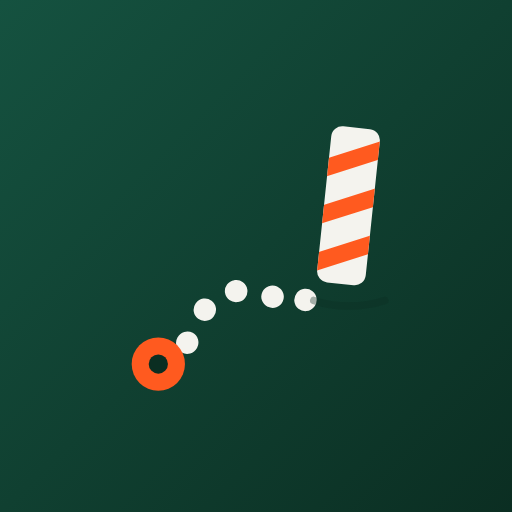
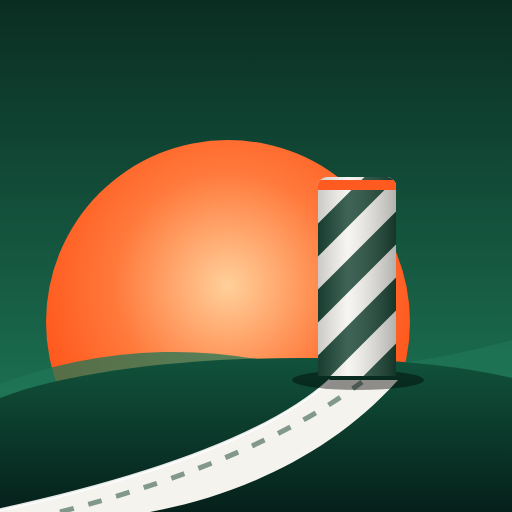
feat: новая иконка Вёрст — верста на рассвете
Иконка нарисована заново: рассветное солнце, лента дороги и верстовой
столб в диагональную полоску — как на экране приветствия.

- icons/icon.svg и icon-maskable.svg (maskable — без скруглений, ключевые
  детали внутри безопасной зоны);
- PNG: icon-192/512, icon-192/512-maskable, apple-touch-icon (180, без альфы),
  favicon-16/32 и favicon.ico (16/32/48) — собраны из тех же SVG;
- знак в шапке каталога (<symbol id="brand-mark"> в index.html) заменён на
  новую иконку, id градиентов с префиксом vk-.

Версию кэша оболочки (SHELL_VERSION) поднимет GitHub Action после слияния.

diff --git a/index.html b/index.html
@@ -22,14 +22,28 @@
   <body>
     <svg width="0" height="0" style="position: absolute" aria-hidden="true">
       <symbol id="brand-mark" viewBox="0 0 512 512">
-        <rect width="512" height="512" rx="116" fill="#124a38" />
-        <g transform="translate(12 -8)">
-          <path d="M112 404C168 398 150 318 214 306S292 356 318 306" fill="none" stroke="#f4f3ee" stroke-width="34" stroke-linecap="round" stroke-dasharray="0.5 56" />
-          <circle cx="112" cy="404" r="40" fill="#ff5a1f" />
-          <circle cx="112" cy="404" r="14" fill="#124a38" />
-          <g transform="rotate(6 368 190)">
-            <rect x="336" y="84" width="66" height="212" rx="15" fill="#f4f3ee" />
-            <path d="M336 138l66-29v26l-66 29zM336 202l66-29v26l-66 29zM336 266l66-29v26l-66 29z" fill="#ff5a1f" />
+        <defs>
+          <linearGradient id="vk-sky" x1="0" y1="0" x2="0" y2="1"><stop offset="0" stop-color="#0a2d22"/><stop offset=".72" stop-color="#1a6a4d"/><stop offset="1" stop-color="#2d8f66"/></linearGradient>
+          <radialGradient id="vk-sun" cx="50%" cy="40%" r="62%"><stop offset="0" stop-color="#ffd09a"/><stop offset=".5" stop-color="#ff7a3c"/><stop offset="1" stop-color="#ff4a10"/></radialGradient>
+          <linearGradient id="vk-hill" x1="0" y1="0" x2="0" y2="1"><stop offset="0" stop-color="#11523b"/><stop offset="1" stop-color="#05201a"/></linearGradient>
+          <linearGradient id="vk-vol" x1="0" y1="0" x2="1" y2="0"><stop offset="0" stop-color="#000" stop-opacity=".22"/><stop offset=".4" stop-color="#fff" stop-opacity=".2"/><stop offset="1" stop-color="#000" stop-opacity=".34"/></linearGradient>
+          <clipPath id="vk-pc"><path d="M318 186a9 9 0 0 1 9-9H387a9 9 0 0 1 9 9V376H318Z"/></clipPath>
+          <clipPath id="vk-tile"><rect width="512" height="512" rx="116"/></clipPath>
+        </defs>
+        <g clip-path="url(#vk-tile)">
+          <rect width="512" height="512" fill="url(#vk-sky)"/>
+          <circle cx="228" cy="322" r="182" fill="url(#vk-sun)"/>
+          <path d="M0 384C84 352 176 344 262 360C352 376 430 362 512 340V512H0Z" fill="#1f7556" opacity=".75"/>
+          <path d="M0 398C120 352 380 346 512 378V512H0Z" fill="url(#vk-hill)"/>
+          <path d="M-10 512C120 484 262 442 330 380H398C330 456 236 496 150 512Z" fill="#f4f3ee"/>
+          <path d="M-10 512C120 484 262 442 330 380" stroke="#fff" stroke-width="3" fill="none" opacity=".9"/>
+          <path d="M60 512C190 478 290 436 362 382" stroke="#0f3d2c" stroke-opacity=".5" stroke-width="5" stroke-dasharray="14 15" fill="none"/>
+          <ellipse cx="358" cy="380" rx="66" ry="10" fill="#000" opacity=".42"/>
+          <g clip-path="url(#vk-pc)">
+            <rect x="310" y="170" width="94" height="212" fill="#f4f3ee"/>
+            <path d="M296 262l190-190M296 328l190-190M296 394l190-190M296 460l190-190M296 526l190-190M296 592l190-190" stroke="#0f3d2c" stroke-width="23.3" fill="none"/>
+            <rect x="310" y="170" width="94" height="212" fill="url(#vk-vol)"/>
+            <rect x="310" y="180" width="94" height="10" fill="#ff5a1f"/>
           </g>
         </g>
       </symbol>
